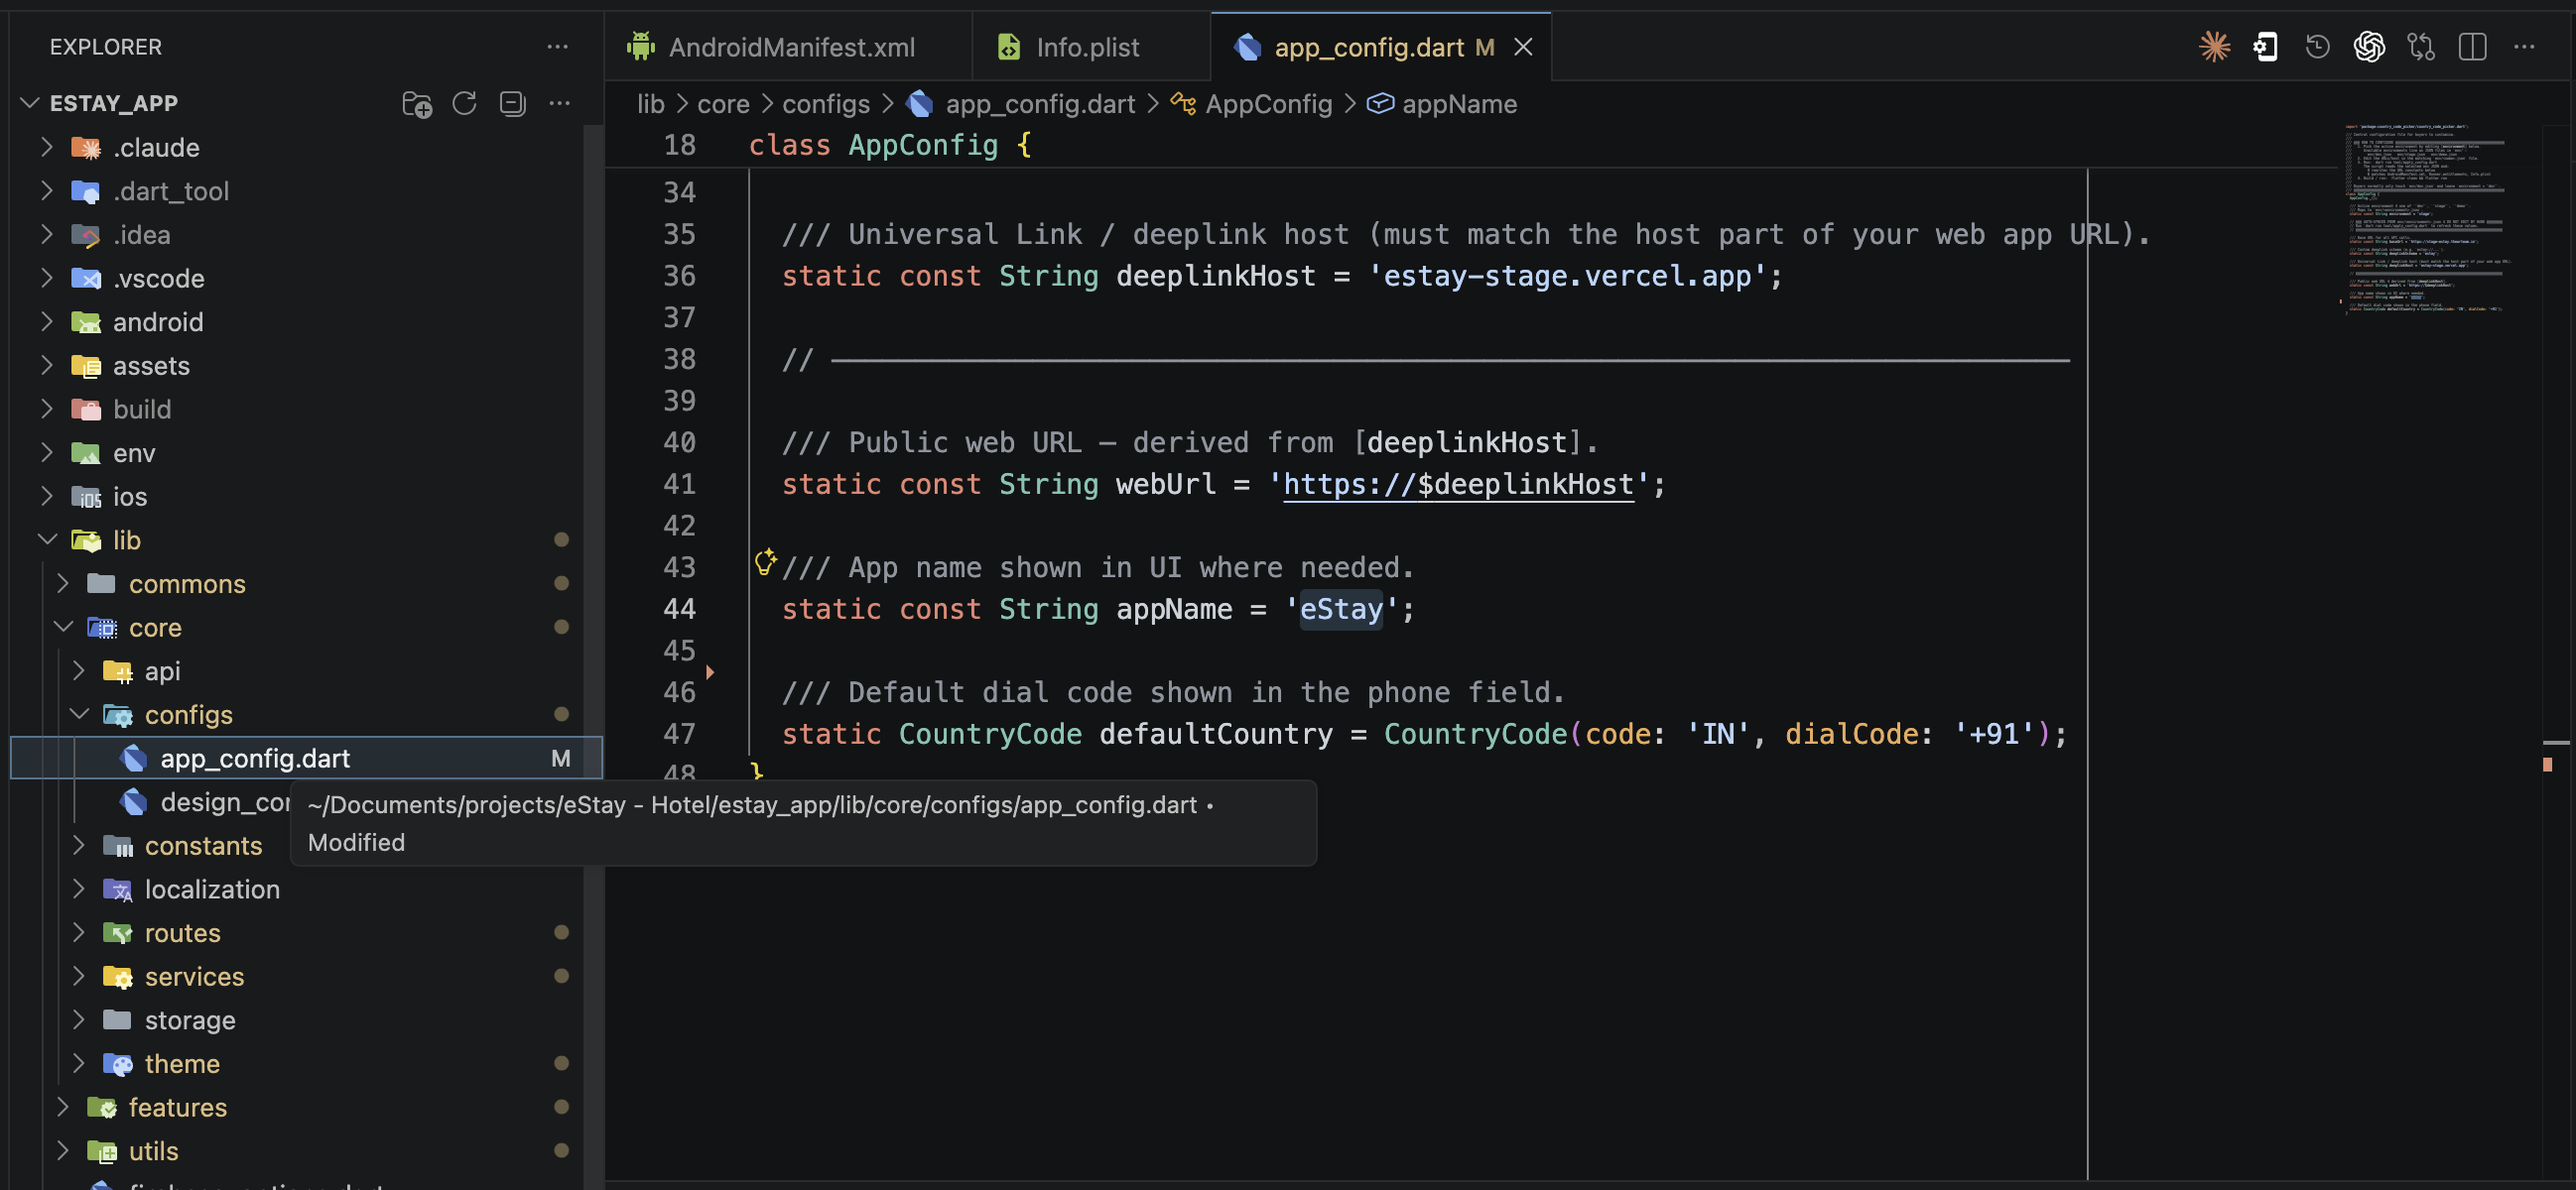
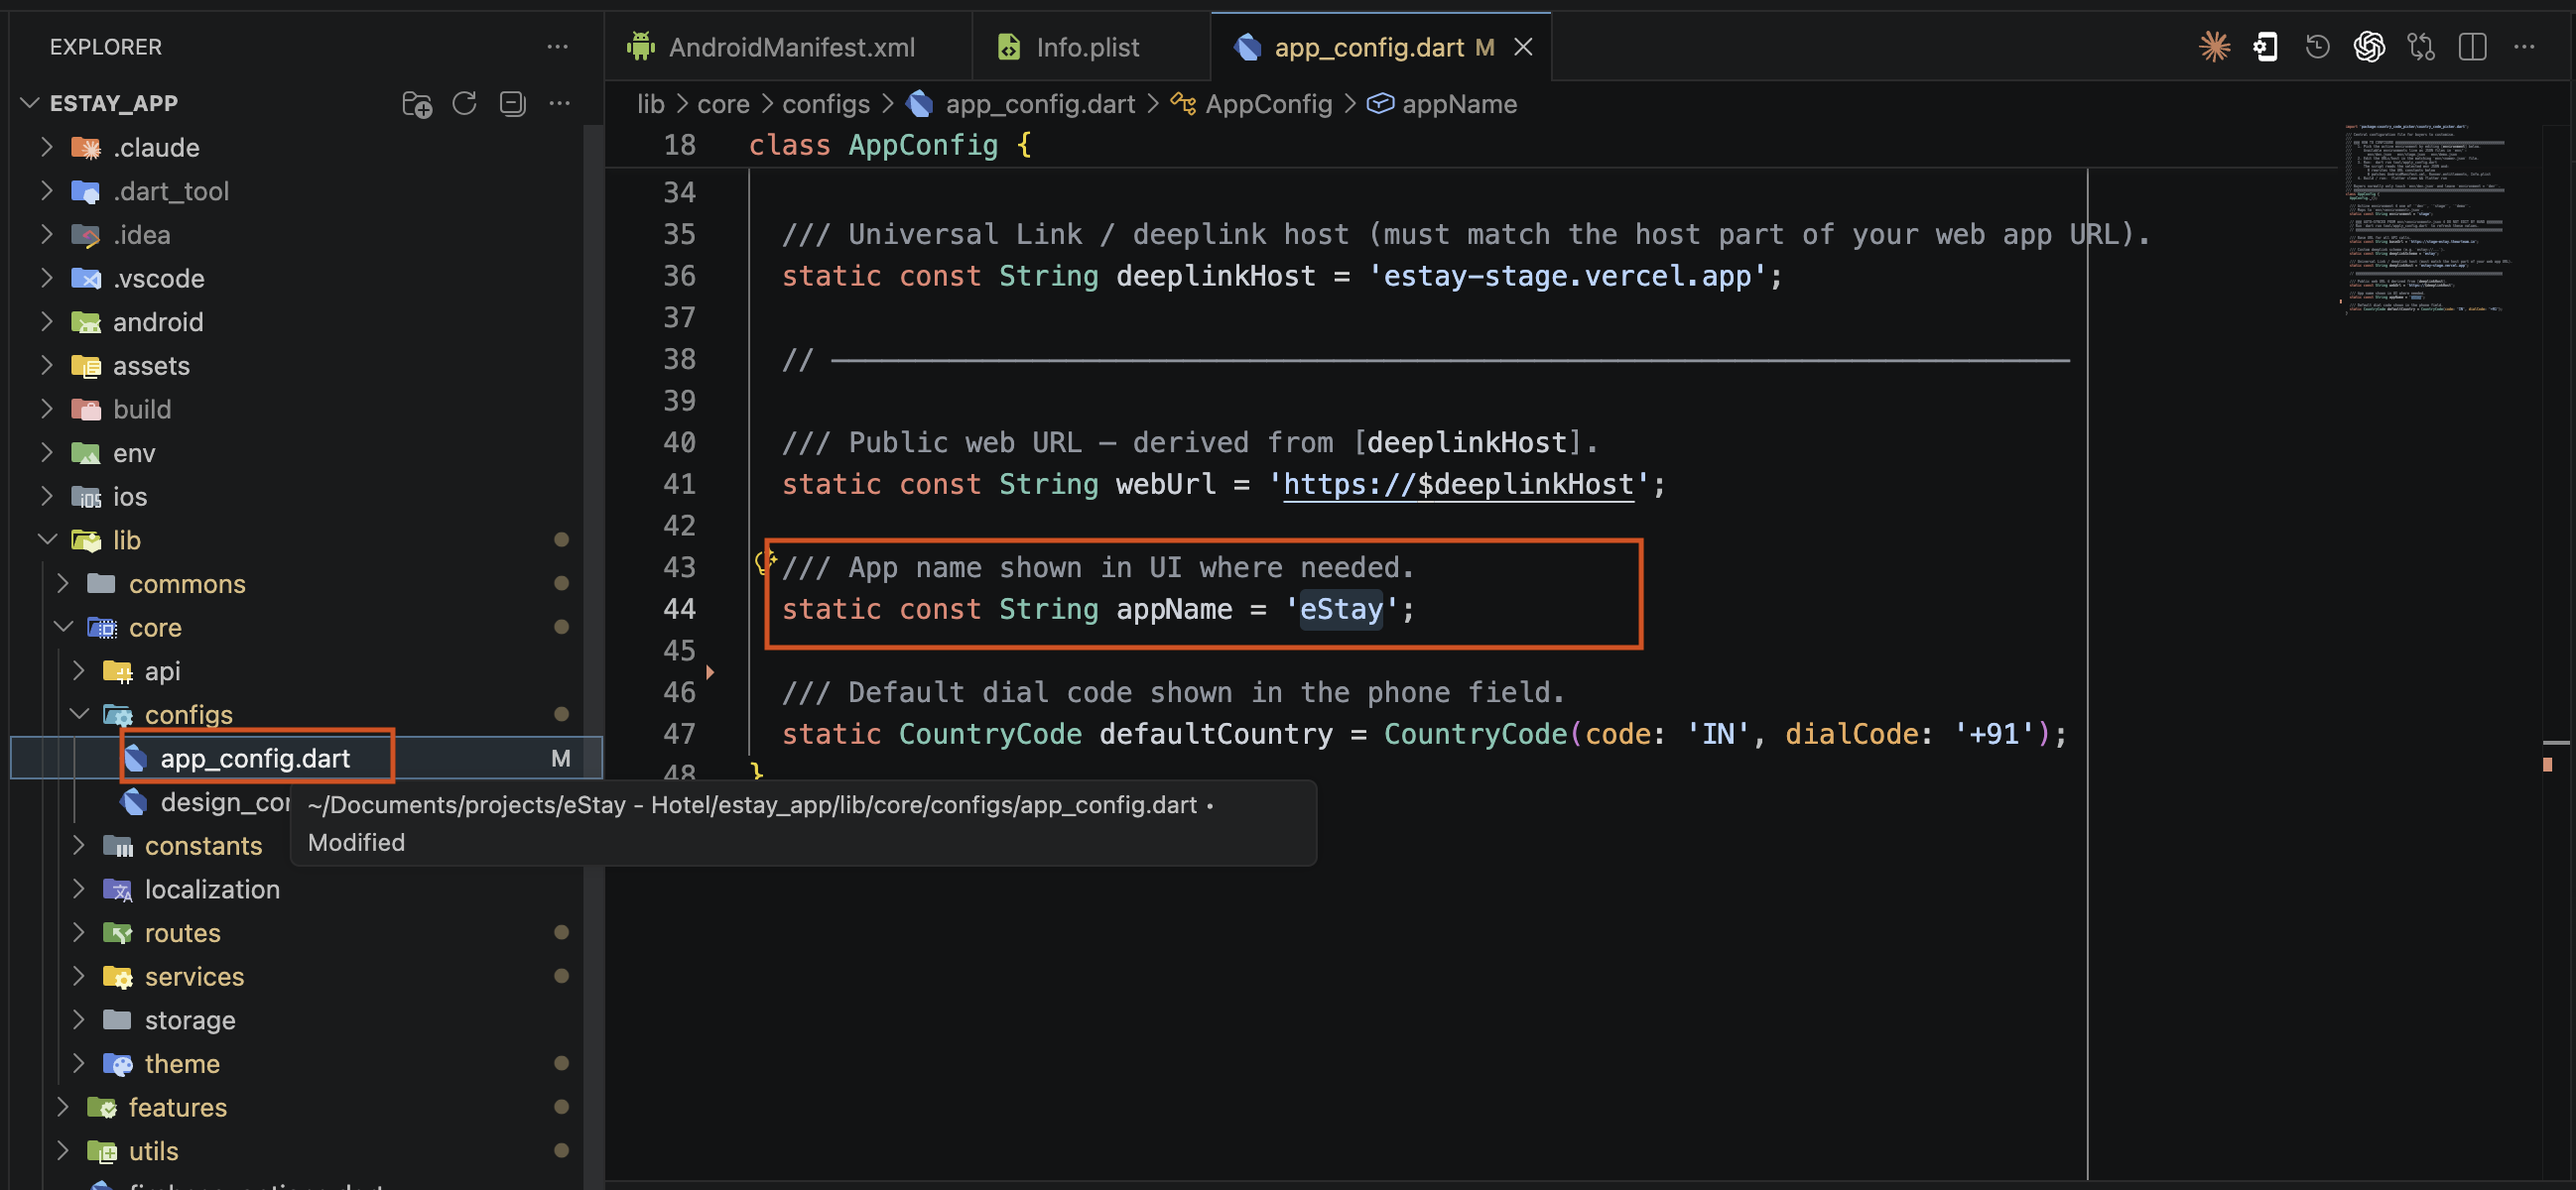
majority of pages added in app setup doc

diff --git a/sidebars.js b/sidebars.js
@@ -37,20 +37,21 @@ const sidebars = {
         "app/firebase-setup",
         "app/firebase-billing",
         "app/panel-url-deeplink",
-        "app/notification-settings",
-        "app/auth-methods",
-        "app/map-api-key",
-        "app/manage-languages",
-        "app/contact-us",
-        "app/payment-gateway",
-        "app/maintenance-mode",
         "app/change-package-name",
         "app/change-app-name",
         "app/change-app-logo",
         "app/change-theme-color",
         "app/change-app-font",
+        "app/notification-settings",
+        "app/map-api-key",
+        "app/auth-methods",
+        "app/payment-gateway",
+        "app/manage-languages",
+        "app/contact-us",
+        "app/maintenance-mode",
         "app/change-app-version",
         "app/store-urls-force-update",
+        "app/run-the-app",
         "app/deployment",
       ],
     },

diff --git a/docs/app/change-app-version.md b/docs/app/change-app-version.md
@@ -6,7 +6,7 @@ sidebar_position: 13
 
 # Change the App Version
 
-Update the version number before every new Play Store / App Store upload. Both Android and iOS versions are controlled from a single line in `pubspec.yaml`.
+Update the version number before every new Play Store / App Store upload. 
 
 ## Version Format
 
@@ -42,11 +42,46 @@ The value has two parts separated by `+`:
    ```
 5. Build your release artifacts:
    - Android — `flutter build appbundle --release`
-   - iOS — `flutter build ipa --release`
+   - iOS — see the iOS-specific steps below before building
 
 The new version will now show on the Play Store / App Store listing after upload.
 
-   
+---
+
+## iOS — Additional Xcode Steps
+
+iOS requires manually updating the version values in two places inside Xcode after changing `pubspec.yaml`.
+
+### Step 1 — Update the Generated file
+
+1. Open the project in Xcode.
+2. In the left sidebar, navigate to **Runner → Flutter → Generated**.
+3. Open the `Generated` file.
+4. Find and update the following two lines to match your new version:
+
+```
+FLUTTER_BUILD_NAME=1.1.0
+FLUTTER_BUILD_NUMBER=2
+```
+
+![Generated file in Xcode](images/appVersion1.png)
+
+### Step 2 — Update Build Settings
+
+1. In the left sidebar, select **Runner → Runner** (under TARGETS).
+2. Click the **Build Settings** tab at the top.
+3. Make sure **All** and **Combined** filters are selected.
+4. Scroll down to the **User-Defined** section.
+5. Update `FLUTTER_BUILD_NAME` and `FLUTTER_BUILD_NUMBER` to match your new version.
+
+![Build Settings in Xcode](images/appVersion2.png)
+
+After both steps are done, build the iOS release:
+
+```bash
+flutter build ipa --release
+```
+
 :::warning
 Always **increment the build number** for every store upload, even if the version name stays the same. The stores reject duplicate build numbers, and rebuilding without bumping will block your submission.
 :::

diff --git a/docs/app/panel-url-deeplink.md b/docs/app/panel-url-deeplink.md
@@ -4,7 +4,7 @@ title: Panel URL & Deeplink Setup
 sidebar_position: 4
 ---
 
-# Panel URL & Deeplink Setup
+# Base URL & Deeplink Setup
 
 Configure the backend API URL and deeplink (Universal Link / App Link) settings used by the app.
 
@@ -16,16 +16,6 @@ The project ships with **three environments**: `dev`, `stage`, and `demo`. Each 
 Most clients won't need multiple environments — they push directly to a single production server. In that case, **just edit `env/demo.json`** and ignore the `dev` and `stage` files. The `demo` environment is the default and is what your end users will run.
 :::
 
-### Files Involved
-
-| File | Purpose |
-|------|---------|
-| `lib/core/configs/app_config.dart` | Dart-side config consumed by the app |
-| `env/dev.json` · `env/stage.json` · `env/demo.json` | Source of truth per environment |
-| `tool/apply_config.dart` | Sync script |
-| `android/app/src/main/AndroidManifest.xml` | Android deeplink intent filters |
-| `ios/Runner/Info.plist` | iOS URL scheme |
-| `ios/Runner/Runner.entitlements` | iOS Universal Links |
 
 ## Config Keys
 
@@ -83,6 +73,18 @@ The script automatically patches:
 ```bash
 flutter clean && flutter run
 ```
+
+### Files Involved
+
+| File | Purpose |
+|------|---------|
+| `lib/core/configs/app_config.dart` | Dart-side config consumed by the app |
+| `env/dev.json` · `env/stage.json` · `env/demo.json` | Source of truth per environment |
+| `tool/apply_config.dart` | Sync script |
+| `android/app/src/main/AndroidManifest.xml` | Android deeplink intent filters |
+| `ios/Runner/Info.plist` | iOS URL scheme |
+| `ios/Runner/Runner.entitlements` | iOS Universal Links |
+
 
 ## Important Notes
 

diff --git a/docs/app/run-the-app.md b/docs/app/run-the-app.md
@@ -1,0 +1,73 @@
+---
+id: run-the-app
+title: Run the App
+sidebar_position: 18
+---
+
+# Run the App
+
+## Prerequisites
+
+Before running the app, ensure the following are in place:
+
+- Flutter SDK installed
+- Android Studio (for Android) or Xcode (for iOS) installed
+- A physical device connected via USB, or an emulator/simulator set up and running
+- All dependencies installed:
+  ```bash
+  flutter pub get
+  ```
+
+---
+
+## Run on Android
+
+1. Open your terminal and navigate to the project directory:
+   ```bash
+   cd path/to/your/project
+   ```
+
+2. Run the app:
+   ```bash
+   flutter run
+   ```
+
+3. When prompted, select your target device:
+   - **Physical device** — connected via USB with USB debugging enabled
+   - **Emulator** — launched from Android Studio's AVD Manager
+
+The app will be built and launched on the selected device.
+
+---
+
+## Run on iOS
+
+1. Open your terminal and navigate to the project directory:
+   ```bash
+   cd path/to/your/project
+   ```
+
+2. Install CocoaPods dependencies:
+   ```bash
+   cd ios
+   pod install
+   ```
+
+   :::tip Pod install issues?
+   If `pod install` fails, run the following inside the `ios` folder to clean and retry:
+   ```bash
+   rm -rf Podfile.lock Pods .symlinks
+   rm -rf ~/Library/Developer/Xcode/DerivedData
+   pod install --repo-update
+   ```
+   :::
+
+3. Go back to the project root and run the app:
+   ```bash
+   cd ..
+   flutter run
+   ```
+
+4. When prompted, select your target device:
+   - **Physical device** — iPhone or iPad connected via USB
+   - **iOS Simulator** — iPhone or iPad simulator launched from Xcode

diff --git a/docs/app/firebase-setup.md b/docs/app/firebase-setup.md
@@ -10,6 +10,20 @@ The app uses Firebase for push notifications, authentication, and other Google s
 
 Please visit our [Firebase Setup Documentation](https://wrteam-in.github.io/common_app_doc/GeneralSettings/firebase/) and follow **every step in the order shown**.
 
+## Authentication Methods
+
+The following authentication methods should be enabled in the Firebase console as per your app requirements:
+
+| Method | Where to configure |
+|--------|-------------------|
+| Phone | Firebase console → Authentication → Sign-in method |
+| Google | Firebase console → Authentication → Sign-in method |
+| Apple | Firebase console → Authentication → Sign-in method |
+
+:::note
+**Email/Password** authentication is handled by the backend — no Firebase configuration needed for it.
+:::
+
 ## What the Guide Covers
 
 - Installing the Firebase CLI

diff --git a/docs/app/change-package-name.md b/docs/app/change-package-name.md
@@ -11,4 +11,7 @@ Update the default package name to your own unique identifier before publishing 
 Please visit our [Change Package Name Documentation](https://wrteam-in.github.io/common_app_doc/GeneralSettings/packagename) for detailed instructions on changing the package name.
 
 After changing the package name, you need to rerun the below commands to update the package references.
-`flutter clean` and `flutter pub get` 
+```
+flutter clean
+flutter pub get
+```

diff --git a/docs/app/map-api-key.md b/docs/app/map-api-key.md
@@ -4,7 +4,7 @@ title: Add Map API Key for Address
 sidebar_position: 7
 ---
 
-# Add Map API Key for Address
+# Add Map API Key
 
 The app uses Google Maps for showing nearby locations of property. You need a Google Cloud API key with the **Maps SDK for Android** and **Maps SDK for iOS** enabled.
 
